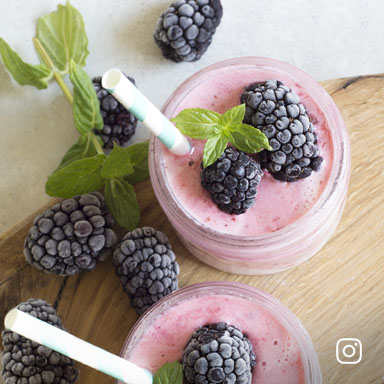
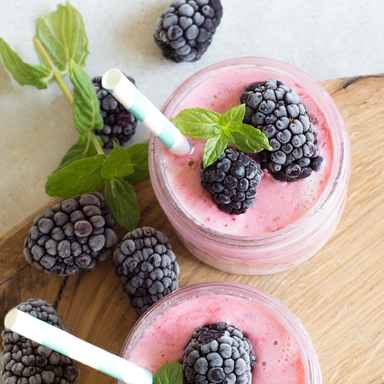
deleit border

diff --git a/index.css b/index.css
@@ -7,10 +7,8 @@ a:hover {
 }
 
 body {
-  max-width: 1920px;
   margin: auto;
-  font-family: 'Muli',
-  'Roboto';
+  font-family: 'Muli', 'Roboto';
 }
 .header {
   height: 100vh;
@@ -23,11 +21,9 @@ body {
   flex-wrap: wrap;
   justify-content: space-between;
   align-items: center;
-  padding-top: 69px;
+  padding: 69px 100px 0;
   position: relative;
   margin-bottom: 105px;
-  margin-right: 100px;
-  margin-left: 100px;
 }
 .header-menu__list {
   display: flex;
@@ -154,14 +150,11 @@ body {
 }
 .text {
   color: #1e1e1e;
-  margin: 0 auto;
   font-size: 18px;
   line-height: 1.94;
-  letter-spacing: normal;
 }
 
 .smoothie__features {
-  max-width: 1010px;
   display: flex;
   flex-wrap: wrap;
 }
@@ -264,7 +257,8 @@ max-width: 650px;
 
 .products {
   display: flex;
-  overflow: overlay;
+  overflow-x: auto;
+  width: 100%;
 }
 .products__product{
   flex-basis: 25%;
@@ -376,7 +370,7 @@ max-width: 650px;
   display: flex;
   flex-wrap: wrap-reverse;
   justify-content: center;
-  position: relative;
+   margin-bottom: 130px;
 }
 .testimonials__quote {
   display: flex;
@@ -386,7 +380,6 @@ max-width: 650px;
   align-items: center;
   z-index: 2;
   padding-top: 65px;
-  margin-bottom: 130px;
   margin-right: 15px;
 }
 .testimonials__quote-text {
@@ -394,6 +387,7 @@ max-width: 650px;
   line-height: 1.94;
   color: #fff;
   text-align: center;
+  position: relative;
 }
 .testimonials__quote-text::before {
   content: "Sarah-A";
@@ -401,15 +395,15 @@ max-width: 650px;
   opacity: 0.6;
   font-size: 200px;
   font-weight: 800;
-  ;
   line-height: 0.2;
   letter-spacing: -4px;
   text-align: left;
   color: rgba(82, 25, 5, 0.6);
   z-index: 1;
   position: absolute;
-  left: 180px;
-  top: 23px;
+  left: 50%;
+  top: -50%;
+  transform: translateX(-50%);
 }
 .testimonials__quote-cite {
   font-size: 18px;
@@ -427,7 +421,6 @@ padding-right: 2px;
   width: 220px;
   height: 218px;
   z-index: 2;
-  align-self: flex-end;
 }
 .testimonials__arrow-left {
   margin-right: 98px;
@@ -467,7 +460,6 @@ padding-right: 2px;
   content: url(assets/images/line-blog.png);
   width: 687px;
 }
-
 .blog__post-title {
 font-size: 30px;
 font-weight: 800;
@@ -509,7 +501,6 @@ padding-top: 45px;
   display: flex;
   flex-direction: column;
   align-items:center;
-  overflow: overlay;
 }
 .instagram__link {
   display: flex;
@@ -527,6 +518,39 @@ padding-top: 45px;
 }
 .instagram__gallery {
   display: flex;
+  overflow-x: auto;
+  width: 100%;
+  justify-content: center;
+  margin-bottom: 10px;
+}
+.instagram__photo {
+  position: relative;
+}
+.instagram__img {
+  height: 100%;
+}
+.instagram__photo::before{
+  content: "";
+  display: block;
+  background-image: url(assets/images/footer-instagram.png);
+  background-repeat: no-repeat;
+  background-size: unset;
+  position: absolute;
+  bottom: 0;
+  right: 0;
+  padding: 25px;
+}
+.instagram__photo::after {
+content: "";
+display: block;
+background-image: url(assets/images/shadow.png);
+background-repeat: no-repeat;
+background-size: cover;
+position: absolute;
+bottom: 0;
+right: 0;
+width: 100%;
+height: 100%;
 }
 
 .footer__top {
@@ -583,7 +607,6 @@ padding-top: 45px;
   height: 60px;
   padding: 21px 218px 20px 23px;
   border-radius: 30px;
- 
 }
 .footer__input[placeholder] {
   font-size: 17px;

diff --git a/index.html b/index.html
@@ -211,11 +211,21 @@
     <a class="instagram__link"><img class="instagram__icon" src=" assets/images/icon-instagram.png"
         alt="instagram icon">ashasuperfoods</a>
     <div class="instagram__gallery">
-      <img class="instagram__photo" src="assets/images/inst1.jpg" alt="instagram photo">
-      <img class="instagram__photo" src="assets/images/inst2.jpg" alt="instagram photo">
-      <img class="instagram__photo" src="assets/images/inst3.jpg" alt="instagram photo">
-      <img class="instagram__photo" src="assets/images/inst4.jpg" alt="instagram photo">
-      <img class="instagram__photo" src="assets/images/inst5.jpg" alt="instagram photo">
+      <div class="instagram__photo">
+        <img class="instagram__img" src="assets/images/inst1.jpg" alt="instagram photo">
+      </div>
+      <div class="instagram__photo">
+        <img class="instagram__img" src="assets/images/inst2.jpg" alt="instagram photo">
+      </div>
+      <div class="instagram__photo">
+        <img class="instagram__img" src="assets/images/inst3.jpg" alt="instagram photo">
+      </div>
+      <div class="instagram__photo">
+        <img class="instagram__img" src="assets/images/inst4.jpg" alt="instagram photo">
+      </div>
+      <div class="instagram__photo">
+        <img class="instagram__img" src="assets/images/inst5.jpg" alt="instagram photo">
+      </div>
     </div>
   </section>
   <footer class="footer">

diff --git a/assets/fonts/fonts.css b/assets/fonts/fonts.css
@@ -1,36 +1,36 @@
 @font-face {
   font-family: 'Muli';
-  src: url(/assets/fonts/Muli-Regular.woff);
+  src: url(Muli-Regular.woff);
   font-weight: 400;
   font-style: normal;
 }
 @font-face {
   font-family: 'Muli';
-  src: url(/assets/fonts/Muli-Italic.ttf);
+  src: url(Muli-Italic.ttf);
   font-weight: normal;
   font-style: italic;
 }
 @font-face {
   font-family: 'Muli';
-  src: url(/assets/fonts/Muli-Bold.ttf);
+  src: url(Muli-Bold.ttf);
   font-weight: bold;
   font-style: normal;
 }
 @font-face {
   font-family: 'Muli';
-  src: url(/assets/fonts/Muli-BoldItalic.ttf);
+  src: url(Muli-BoldItalic.ttf);
   font-weight: bold;
   font-style: italic;
 }
 @font-face {
   font-family: 'Muli';
-  src: url(/assets/fonts/Muli-ExtraBold.woff);
+  src: url(Muli-ExtraBold.woff);
   font-weight: 800;
   font-style: normal;
 }
 @font-face {
   font-family: 'Muli';
-  src: url(/assets/fonts/Muli-Semi-BoldItalic.ttf);
+  src: url(Muli-Semi-BoldItalic.ttf);
   font-weight: 600;
   font-style: italic;
 }
